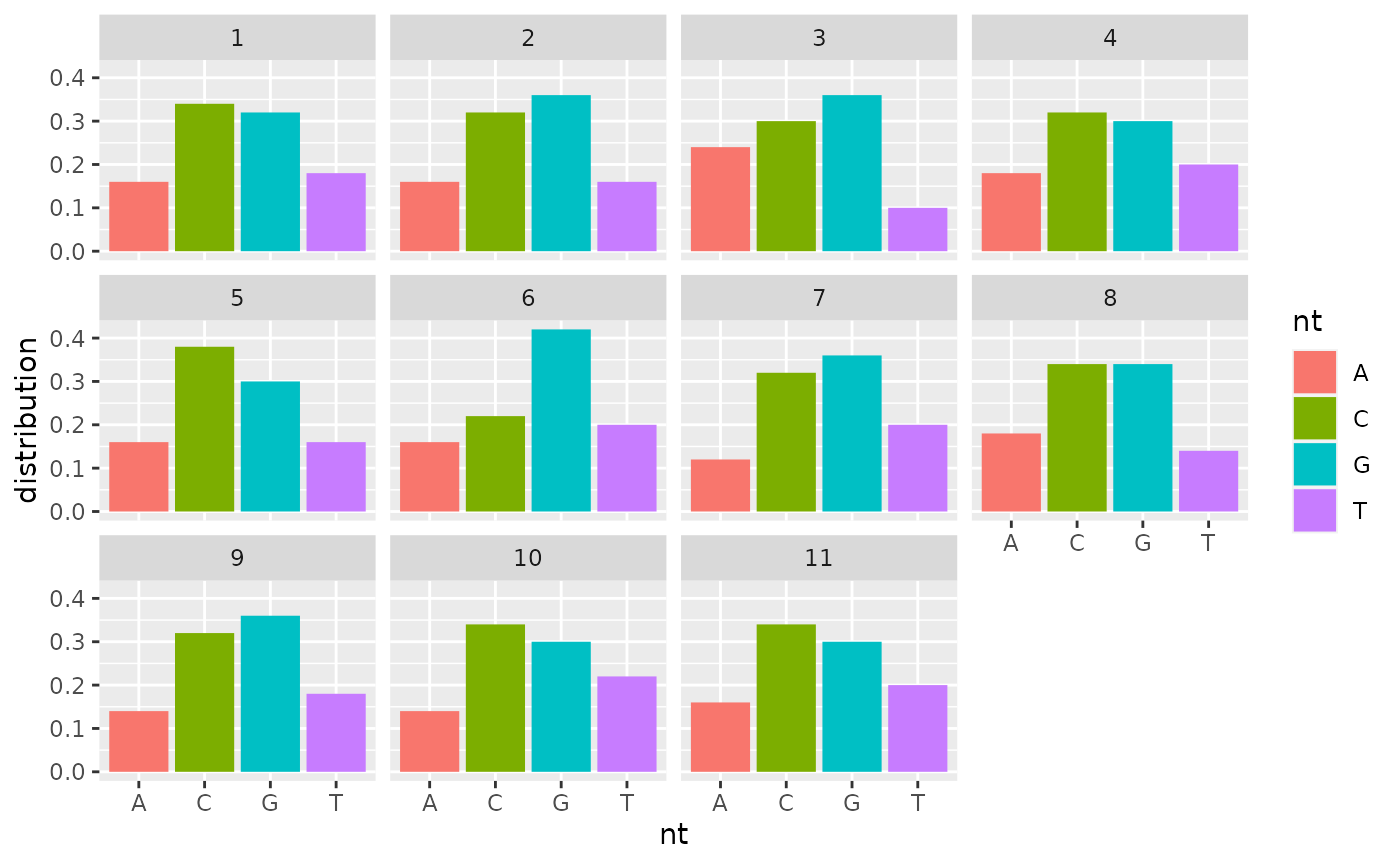
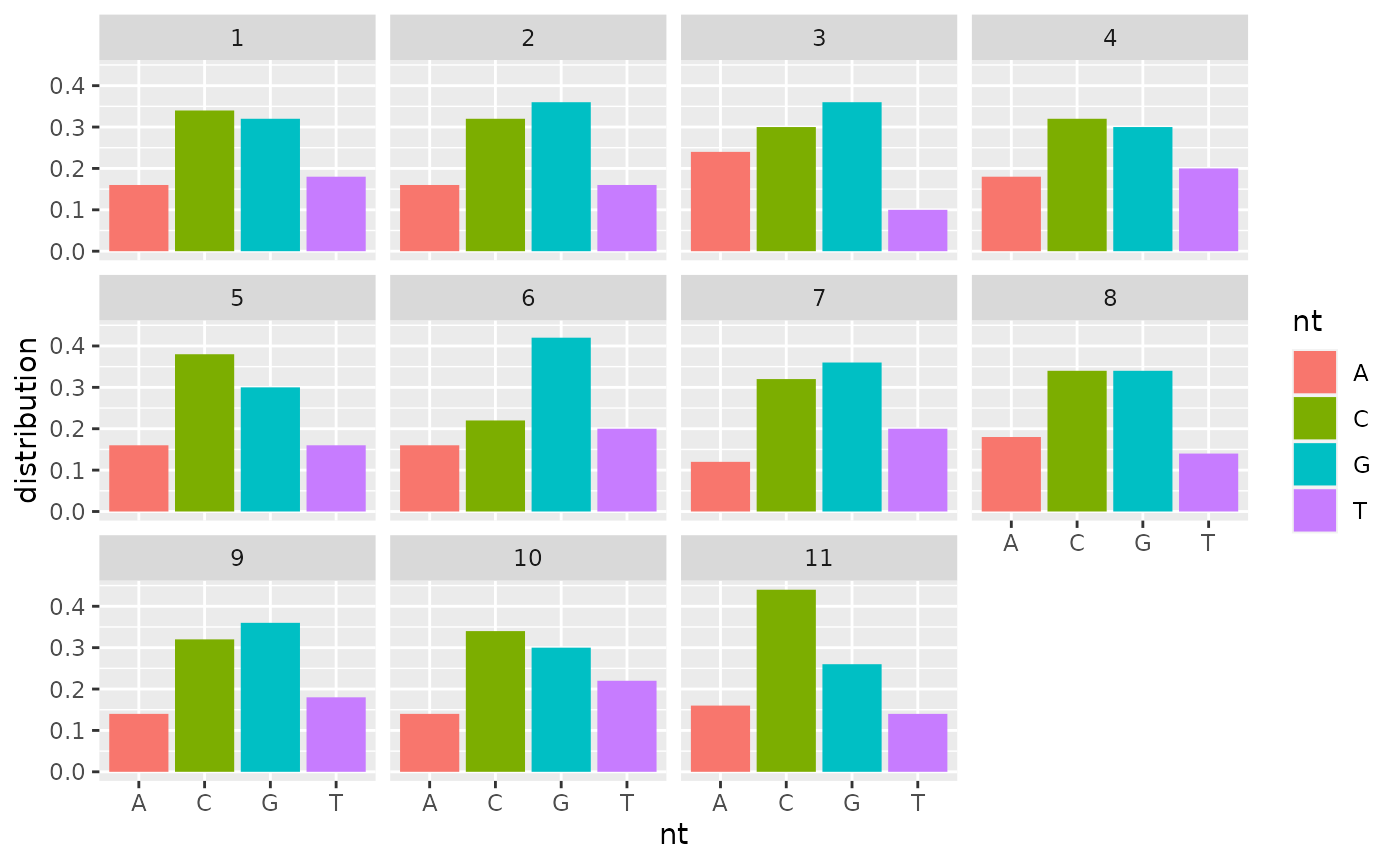
update documentation

diff --git a/docs/articles/getting_started.html b/docs/articles/getting_started.html
@@ -254,20 +254,20 @@ mark.out {
 <span><span class="co">## [[1]]$confusion_matrix</span></span>
 <span><span class="co">##             Truth</span></span>
 <span><span class="co">## Prediction   high_gc equal_dist</span></span>
-<span><span class="co">##   high_gc        387          1</span></span>
-<span><span class="co">##   equal_dist      12        398</span></span>
+<span><span class="co">##   high_gc        388          2</span></span>
+<span><span class="co">##   equal_dist      11        397</span></span>
 <span><span class="co">## </span></span>
 <span><span class="co">## [[1]]$accuracy</span></span>
 <span><span class="co">## [1] 0.9837093</span></span>
 <span><span class="co">## </span></span>
 <span><span class="co">## [[1]]$categorical_crossentropy_loss</span></span>
-<span><span class="co">## [1] 0.08368492</span></span>
+<span><span class="co">## [1] 0.1159862</span></span>
 <span><span class="co">## </span></span>
 <span><span class="co">## [[1]]$AUC</span></span>
-<span><span class="co">## [1] 0.9990138</span></span>
+<span><span class="co">## [1] 0.9986369</span></span>
 <span><span class="co">## </span></span>
 <span><span class="co">## [[1]]$AUPRC</span></span>
-<span><span class="co">## [1] 0.9990114</span></span></code></pre>
+<span><span class="co">## [1] 0.9986236</span></span></code></pre>
 <p>We can check where our model made mistakes for the sequence with high GC content.</p>
 <div class="sourceCode" id="cb13"><pre class="downlit sourceCode r">
 <code class="sourceCode R"><span><span class="va">high_gc_file</span> <span class="op">&lt;-</span> <span class="fu">microseq</span><span class="fu">::</span><span class="fu"><a href="https://rdrr.io/pkg/microseq/man/readFasta.html" class="external-link">readFasta</a></span><span class="op">(</span><span class="fu"><a href="https://rdrr.io/r/base/list.files.html" class="external-link">list.files</a></span><span class="op">(</span><span class="va">val_1_dir</span>, full.names <span class="op">=</span> <span class="cn">TRUE</span><span class="op">)</span><span class="op">[</span><span class="fl">1</span><span class="op">]</span><span class="op">)</span></span>
@@ -302,7 +302,7 @@ mark.out {
 <span><span class="fu"><a href="https://rdrr.io/r/base/names.html" class="external-link">names</a></span><span class="op">(</span><span class="va">pred_df</span><span class="op">)</span> <span class="op">&lt;-</span> <span class="fu"><a href="https://rdrr.io/r/base/c.html" class="external-link">c</a></span><span class="op">(</span><span class="st">"high_gc_conf"</span>, <span class="st">"equal_dist_conf"</span>, <span class="st">"sample_end_position"</span><span class="op">)</span></span>
 <span><span class="fu"><a href="https://rdrr.io/r/utils/head.html" class="external-link">head</a></span><span class="op">(</span><span class="va">pred_df</span><span class="op">)</span></span></code></pre></div>
 <pre><code><span><span class="co">##   high_gc_conf equal_dist_conf sample_end_position</span></span>
-<span><span class="co">## 1         0.93            0.07                  50</span></span>
+<span><span class="co">## 1         0.95            0.05                  50</span></span>
 <span><span class="co">## 2         0.97            0.03                  75</span></span>
 <span><span class="co">## 3         0.97            0.03                 100</span></span>
 <span><span class="co">## 4         0.96            0.04                 125</span></span>
@@ -312,17 +312,17 @@ mark.out {
 <code class="sourceCode R"><span><span class="va">wrong_pred</span> <span class="op">&lt;-</span> <span class="va">pred_df</span> <span class="op"><a href="../reference/pipe.html">%&gt;%</a></span> <span class="fu">dplyr</span><span class="fu">::</span><span class="fu"><a href="https://dplyr.tidyverse.org/reference/filter.html" class="external-link">filter</a></span><span class="op">(</span><span class="va">high_gc_conf</span> <span class="op">&lt;</span> <span class="fl">0.5</span><span class="op">)</span></span>
 <span><span class="va">wrong_pred</span></span></code></pre></div>
 <pre><code><span><span class="co">##    high_gc_conf equal_dist_conf sample_end_position</span></span>
-<span><span class="co">## 1          0.10            0.90                 800</span></span>
-<span><span class="co">## 2          0.13            0.87                1150</span></span>
-<span><span class="co">## 3          0.08            0.92                1950</span></span>
-<span><span class="co">## 4          0.06            0.94                2700</span></span>
-<span><span class="co">## 5          0.12            0.88                3000</span></span>
-<span><span class="co">## 6          0.09            0.91                3700</span></span>
-<span><span class="co">## 7          0.33            0.67                4425</span></span>
-<span><span class="co">## 8          0.17            0.83                4675</span></span>
-<span><span class="co">## 9          0.14            0.86                7875</span></span>
-<span><span class="co">## 10         0.10            0.90                8225</span></span>
-<span><span class="co">## 11         0.34            0.66                9900</span></span></code></pre>
+<span><span class="co">## 1          0.18            0.82                 800</span></span>
+<span><span class="co">## 2          0.28            0.72                1150</span></span>
+<span><span class="co">## 3          0.14            0.86                1950</span></span>
+<span><span class="co">## 4          0.13            0.87                2700</span></span>
+<span><span class="co">## 5          0.28            0.72                3000</span></span>
+<span><span class="co">## 6          0.14            0.86                3700</span></span>
+<span><span class="co">## 7          0.40            0.60                4425</span></span>
+<span><span class="co">## 8          0.33            0.67                4675</span></span>
+<span><span class="co">## 9          0.30            0.70                7875</span></span>
+<span><span class="co">## 10         0.17            0.83                8225</span></span>
+<span><span class="co">## 11         0.41            0.59                9925</span></span></code></pre>
 <div class="sourceCode" id="cb20"><pre class="downlit sourceCode r">
 <code class="sourceCode R"><span><span class="kw">if</span> <span class="op">(</span><span class="fu"><a href="https://rdrr.io/r/base/nrow.html" class="external-link">nrow</a></span><span class="op">(</span><span class="va">wrong_pred</span><span class="op">)</span> <span class="op">==</span> <span class="fl">0</span><span class="op">)</span> <span class="op">{</span></span>
 <span>  <span class="fu"><a href="https://rdrr.io/r/base/print.html" class="external-link">print</a></span><span class="op">(</span><span class="st">"All predictions for high GC content class correct"</span><span class="op">)</span></span>
@@ -348,7 +348,7 @@ mark.out {
 <span><span class="co">##  [8] "ATCCCGCATTCGCCGACGTCTCCACAGGAGGATCAGCGGGTCCGGGGCGA"</span></span>
 <span><span class="co">##  [9] "CTACGGAACGTGGCTCCGAGCATCGGCGCATCGGCATGTGTCTGCCGGCG"</span></span>
 <span><span class="co">## [10] "GGCGGGCCCTTCAATTCTATAAGCGACGCCGCCCTTGTCTGACGCTGGGC"</span></span>
-<span><span class="co">## [11] "TGGCCGTCGCGCTCCGGAGCCGTCACACCGGCGTACCTGTTATAAAGTCG"</span></span></code></pre>
+<span><span class="co">## [11] "CACCGGCGTACCTGTTATAAAGTCGCCCGCGCTCCCCCGGGCGCACCACG"</span></span></code></pre>
 <p>We can check the nucleotide distribution of those sequences</p>
 <div class="sourceCode" id="cb22"><pre class="downlit sourceCode r">
 <code class="sourceCode R"><span><span class="va">l</span> <span class="op">&lt;-</span> <span class="fu"><a href="https://rdrr.io/r/base/list.html" class="external-link">list</a></span><span class="op">(</span><span class="op">)</span></span>
@@ -368,7 +368,7 @@ mark.out {
 <span><span class="co">##  [8,] 0.18 0.34 0.34 0.14</span></span>
 <span><span class="co">##  [9,] 0.14 0.32 0.36 0.18</span></span>
 <span><span class="co">## [10,] 0.14 0.34 0.30 0.22</span></span>
-<span><span class="co">## [11,] 0.16 0.34 0.30 0.20</span></span></code></pre>
+<span><span class="co">## [11,] 0.16 0.44 0.26 0.14</span></span></code></pre>
 <div class="sourceCode" id="cb24"><pre class="downlit sourceCode r">
 <code class="sourceCode R"><span><span class="va">df</span> <span class="op">&lt;-</span> <span class="fu"><a href="https://rdrr.io/r/base/data.frame.html" class="external-link">data.frame</a></span><span class="op">(</span>distribution <span class="op">=</span> <span class="fu"><a href="https://rdrr.io/r/base/vector.html" class="external-link">as.vector</a></span><span class="op">(</span><span class="va">dist_matrix</span><span class="op">)</span>,</span>
 <span>                 nt <span class="op">=</span> <span class="fu"><a href="https://rdrr.io/r/base/factor.html" class="external-link">factor</a></span><span class="op">(</span><span class="fu"><a href="https://rdrr.io/r/base/rep.html" class="external-link">rep</a></span><span class="op">(</span><span class="va">vocabulary</span>, each <span class="op">=</span> <span class="fu"><a href="https://rdrr.io/r/base/nrow.html" class="external-link">nrow</a></span><span class="op">(</span><span class="va">dist_matrix</span><span class="op">)</span><span class="op">)</span><span class="op">)</span>,</span>

diff --git a/docs/reference/integrated_gradients.html b/docs/reference/integrated_gradients.html
@@ -155,26 +155,26 @@ gradient repeatedly for different shuffles). Final result is average of <code>nu
 <span class="r-in"><span>  target_class_idx <span class="op">=</span> <span class="fl">3</span>,</span></span>
 <span class="r-in"><span>  model <span class="op">=</span> <span class="va">model</span><span class="op">)</span></span></span>
 <span class="r-out co"><span class="r-pr">#&gt;</span> tf.Tensor(</span>
-<span class="r-out co"><span class="r-pr">#&gt;</span> [[-0.0000000e+00  5.6185073e-04  0.0000000e+00 -0.0000000e+00]</span>
-<span class="r-out co"><span class="r-pr">#&gt;</span>  [-0.0000000e+00  6.5913366e-04  0.0000000e+00 -0.0000000e+00]</span>
-<span class="r-out co"><span class="r-pr">#&gt;</span>  [-0.0000000e+00  0.0000000e+00  0.0000000e+00 -9.5145406e-05]</span>
-<span class="r-out co"><span class="r-pr">#&gt;</span>  [-0.0000000e+00  0.0000000e+00  0.0000000e+00 -9.5707066e-05]</span>
-<span class="r-out co"><span class="r-pr">#&gt;</span>  [-0.0000000e+00  1.1624041e-03  0.0000000e+00 -0.0000000e+00]</span>
-<span class="r-out co"><span class="r-pr">#&gt;</span>  [-0.0000000e+00  1.3719264e-03  0.0000000e+00 -0.0000000e+00]</span>
-<span class="r-out co"><span class="r-pr">#&gt;</span>  [-1.6257822e-03  0.0000000e+00 -0.0000000e+00 -0.0000000e+00]</span>
-<span class="r-out co"><span class="r-pr">#&gt;</span>  [-0.0000000e+00  2.0553048e-03  0.0000000e+00 -0.0000000e+00]</span>
-<span class="r-out co"><span class="r-pr">#&gt;</span>  [-0.0000000e+00  2.4108677e-03  0.0000000e+00  0.0000000e+00]</span>
-<span class="r-out co"><span class="r-pr">#&gt;</span>  [-0.0000000e+00  2.8258753e-03  0.0000000e+00  0.0000000e+00]</span>
-<span class="r-out co"><span class="r-pr">#&gt;</span>  [-0.0000000e+00  3.3077488e-03 -0.0000000e+00  0.0000000e+00]</span>
-<span class="r-out co"><span class="r-pr">#&gt;</span>  [-3.2337394e-03  0.0000000e+00 -0.0000000e+00  0.0000000e+00]</span>
-<span class="r-out co"><span class="r-pr">#&gt;</span>  [-0.0000000e+00  0.0000000e+00 -8.4781426e-04  0.0000000e+00]</span>
-<span class="r-out co"><span class="r-pr">#&gt;</span>  [-0.0000000e+00  0.0000000e+00 -1.4667968e-03  0.0000000e+00]</span>
-<span class="r-out co"><span class="r-pr">#&gt;</span>  [-0.0000000e+00  0.0000000e+00 -0.0000000e+00  2.8111457e-03]</span>
-<span class="r-out co"><span class="r-pr">#&gt;</span>  [-0.0000000e+00  7.5377901e-03 -0.0000000e+00  0.0000000e+00]</span>
-<span class="r-out co"><span class="r-pr">#&gt;</span>  [-0.0000000e+00  0.0000000e+00 -5.1473416e-03  0.0000000e+00]</span>
-<span class="r-out co"><span class="r-pr">#&gt;</span>  [-0.0000000e+00  0.0000000e+00 -7.3458897e-03  0.0000000e+00]</span>
-<span class="r-out co"><span class="r-pr">#&gt;</span>  [-0.0000000e+00  0.0000000e+00 -0.0000000e+00  1.2562286e-02]</span>
-<span class="r-out co"><span class="r-pr">#&gt;</span>  [-0.0000000e+00  1.3367463e-02 -0.0000000e+00  0.0000000e+00]], shape=(20, 4), dtype=float32)</span>
+<span class="r-out co"><span class="r-pr">#&gt;</span> [[ 0.0000000e+00  5.8794332e-05 -0.0000000e+00  0.0000000e+00]</span>
+<span class="r-out co"><span class="r-pr">#&gt;</span>  [ 0.0000000e+00  8.2444443e-05 -0.0000000e+00  0.0000000e+00]</span>
+<span class="r-out co"><span class="r-pr">#&gt;</span>  [ 0.0000000e+00  0.0000000e+00 -0.0000000e+00  3.3772856e-04]</span>
+<span class="r-out co"><span class="r-pr">#&gt;</span>  [ 0.0000000e+00  0.0000000e+00 -0.0000000e+00  4.3372050e-04]</span>
+<span class="r-out co"><span class="r-pr">#&gt;</span>  [-0.0000000e+00  2.1554442e-04 -0.0000000e+00  0.0000000e+00]</span>
+<span class="r-out co"><span class="r-pr">#&gt;</span>  [-0.0000000e+00  3.0925593e-04 -0.0000000e+00  0.0000000e+00]</span>
+<span class="r-out co"><span class="r-pr">#&gt;</span>  [-2.5043104e-04  0.0000000e+00 -0.0000000e+00  0.0000000e+00]</span>
+<span class="r-out co"><span class="r-pr">#&gt;</span>  [-0.0000000e+00  7.6321146e-04 -0.0000000e+00  0.0000000e+00]</span>
+<span class="r-out co"><span class="r-pr">#&gt;</span>  [-0.0000000e+00  1.0534221e-03 -0.0000000e+00  0.0000000e+00]</span>
+<span class="r-out co"><span class="r-pr">#&gt;</span>  [-0.0000000e+00  1.4456663e-03 -0.0000000e+00  0.0000000e+00]</span>
+<span class="r-out co"><span class="r-pr">#&gt;</span>  [-0.0000000e+00  1.9766958e-03 -0.0000000e+00  0.0000000e+00]</span>
+<span class="r-out co"><span class="r-pr">#&gt;</span>  [-6.7671965e-04  0.0000000e+00 -0.0000000e+00  0.0000000e+00]</span>
+<span class="r-out co"><span class="r-pr">#&gt;</span>  [ 0.0000000e+00  0.0000000e+00 -2.8955266e-03  0.0000000e+00]</span>
+<span class="r-out co"><span class="r-pr">#&gt;</span>  [ 0.0000000e+00  0.0000000e+00 -3.4210330e-03  0.0000000e+00]</span>
+<span class="r-out co"><span class="r-pr">#&gt;</span>  [ 0.0000000e+00  0.0000000e+00 -0.0000000e+00  3.3402992e-03]</span>
+<span class="r-out co"><span class="r-pr">#&gt;</span>  [ 0.0000000e+00  8.7050423e-03 -0.0000000e+00  0.0000000e+00]</span>
+<span class="r-out co"><span class="r-pr">#&gt;</span>  [ 0.0000000e+00  0.0000000e+00 -1.9358685e-03  0.0000000e+00]</span>
+<span class="r-out co"><span class="r-pr">#&gt;</span>  [ 0.0000000e+00  0.0000000e+00 -4.3324642e-05  0.0000000e+00]</span>
+<span class="r-out co"><span class="r-pr">#&gt;</span>  [ 0.0000000e+00  0.0000000e+00  0.0000000e+00  1.6571555e-03]</span>
+<span class="r-out co"><span class="r-pr">#&gt;</span>  [ 0.0000000e+00  2.3323672e-02  0.0000000e+00  0.0000000e+00]], shape=(20, 4), dtype=float32)</span>
 </code></pre></div>
     </div>
   </div>

diff --git a/docs/reference/load_prediction.html b/docs/reference/load_prediction.html
@@ -155,25 +155,25 @@
 <span class="r-out co"><span class="r-pr">#&gt;</span> states matrix has 19 rows and 2 columns </span>
 <span class="r-out co"><span class="r-pr">#&gt;</span> $states</span>
 <span class="r-out co"><span class="r-pr">#&gt;</span>       [,1] [,2]</span>
-<span class="r-out co"><span class="r-pr">#&gt;</span>  [1,] 0.47 0.53</span>
-<span class="r-out co"><span class="r-pr">#&gt;</span>  [2,] 0.46 0.54</span>
-<span class="r-out co"><span class="r-pr">#&gt;</span>  [3,] 0.45 0.55</span>
-<span class="r-out co"><span class="r-pr">#&gt;</span>  [4,] 0.45 0.55</span>
-<span class="r-out co"><span class="r-pr">#&gt;</span>  [5,] 0.44 0.56</span>
-<span class="r-out co"><span class="r-pr">#&gt;</span>  [6,] 0.47 0.53</span>
-<span class="r-out co"><span class="r-pr">#&gt;</span>  [7,] 0.48 0.52</span>
-<span class="r-out co"><span class="r-pr">#&gt;</span>  [8,] 0.44 0.56</span>
-<span class="r-out co"><span class="r-pr">#&gt;</span>  [9,] 0.47 0.53</span>
-<span class="r-out co"><span class="r-pr">#&gt;</span> [10,] 0.44 0.56</span>
-<span class="r-out co"><span class="r-pr">#&gt;</span> [11,] 0.48 0.52</span>
-<span class="r-out co"><span class="r-pr">#&gt;</span> [12,] 0.46 0.54</span>
-<span class="r-out co"><span class="r-pr">#&gt;</span> [13,] 0.46 0.54</span>
-<span class="r-out co"><span class="r-pr">#&gt;</span> [14,] 0.46 0.54</span>
-<span class="r-out co"><span class="r-pr">#&gt;</span> [15,] 0.45 0.55</span>
-<span class="r-out co"><span class="r-pr">#&gt;</span> [16,] 0.47 0.53</span>
-<span class="r-out co"><span class="r-pr">#&gt;</span> [17,] 0.47 0.53</span>
-<span class="r-out co"><span class="r-pr">#&gt;</span> [18,] 0.48 0.52</span>
-<span class="r-out co"><span class="r-pr">#&gt;</span> [19,] 0.46 0.54</span>
+<span class="r-out co"><span class="r-pr">#&gt;</span>  [1,] 0.52 0.48</span>
+<span class="r-out co"><span class="r-pr">#&gt;</span>  [2,] 0.48 0.52</span>
+<span class="r-out co"><span class="r-pr">#&gt;</span>  [3,] 0.50 0.50</span>
+<span class="r-out co"><span class="r-pr">#&gt;</span>  [4,] 0.51 0.49</span>
+<span class="r-out co"><span class="r-pr">#&gt;</span>  [5,] 0.48 0.52</span>
+<span class="r-out co"><span class="r-pr">#&gt;</span>  [6,] 0.52 0.48</span>
+<span class="r-out co"><span class="r-pr">#&gt;</span>  [7,] 0.52 0.48</span>
+<span class="r-out co"><span class="r-pr">#&gt;</span>  [8,] 0.50 0.50</span>
+<span class="r-out co"><span class="r-pr">#&gt;</span>  [9,] 0.52 0.48</span>
+<span class="r-out co"><span class="r-pr">#&gt;</span> [10,] 0.49 0.51</span>
+<span class="r-out co"><span class="r-pr">#&gt;</span> [11,] 0.54 0.46</span>
+<span class="r-out co"><span class="r-pr">#&gt;</span> [12,] 0.50 0.50</span>
+<span class="r-out co"><span class="r-pr">#&gt;</span> [13,] 0.51 0.49</span>
+<span class="r-out co"><span class="r-pr">#&gt;</span> [14,] 0.51 0.49</span>
+<span class="r-out co"><span class="r-pr">#&gt;</span> [15,] 0.47 0.53</span>
+<span class="r-out co"><span class="r-pr">#&gt;</span> [16,] 0.50 0.50</span>
+<span class="r-out co"><span class="r-pr">#&gt;</span> [17,] 0.59 0.41</span>
+<span class="r-out co"><span class="r-pr">#&gt;</span> [18,] 0.53 0.47</span>
+<span class="r-out co"><span class="r-pr">#&gt;</span> [19,] 0.49 0.51</span>
 <span class="r-out co"><span class="r-pr">#&gt;</span> </span>
 </code></pre></div>
     </div>

diff --git a/docs/reference/evaluate_model.html b/docs/reference/evaluate_model.html
@@ -265,16 +265,16 @@ and else an integer.</p></dd>
 <span class="r-out co"><span class="r-pr">#&gt;</span> [[1]]$confusion_matrix</span>
 <span class="r-out co"><span class="r-pr">#&gt;</span>           Truth</span>
 <span class="r-out co"><span class="r-pr">#&gt;</span> Prediction a c g t</span>
-<span class="r-out co"><span class="r-pr">#&gt;</span>          a 1 2 0 0</span>
-<span class="r-out co"><span class="r-pr">#&gt;</span>          c 2 0 4 2</span>
-<span class="r-out co"><span class="r-pr">#&gt;</span>          g 0 1 1 0</span>
-<span class="r-out co"><span class="r-pr">#&gt;</span>          t 0 1 1 0</span>
+<span class="r-out co"><span class="r-pr">#&gt;</span>          a 0 0 0 0</span>
+<span class="r-out co"><span class="r-pr">#&gt;</span>          c 0 0 1 0</span>
+<span class="r-out co"><span class="r-pr">#&gt;</span>          g 3 4 5 2</span>
+<span class="r-out co"><span class="r-pr">#&gt;</span>          t 0 0 0 0</span>
 <span class="r-out co"><span class="r-pr">#&gt;</span> </span>
 <span class="r-out co"><span class="r-pr">#&gt;</span> [[1]]$accuracy</span>
-<span class="r-out co"><span class="r-pr">#&gt;</span> [1] 0.1333333</span>
+<span class="r-out co"><span class="r-pr">#&gt;</span> [1] 0.3333333</span>
 <span class="r-out co"><span class="r-pr">#&gt;</span> </span>
 <span class="r-out co"><span class="r-pr">#&gt;</span> [[1]]$categorical_crossentropy_loss</span>
-<span class="r-out co"><span class="r-pr">#&gt;</span> [1] 1.380622</span>
+<span class="r-out co"><span class="r-pr">#&gt;</span> [1] 1.371211</span>
 <span class="r-out co"><span class="r-pr">#&gt;</span> </span>
 <span class="r-out co"><span class="r-pr">#&gt;</span> [[1]]$AUC</span>
 <span class="r-out co"><span class="r-pr">#&gt;</span> NULL</span>

diff --git a/docs/articles/training_types.html b/docs/articles/training_types.html
@@ -373,10 +373,10 @@ mark.out {
 <span><span class="op">)</span></span></code></pre></div>
 <pre><code><span><span class="co">## </span></span>
 <span><span class="co">## Final epoch (plot to see history):</span></span>
-<span><span class="co">##             loss: 0.0008934</span></span>
+<span><span class="co">##             loss: 0.004329</span></span>
 <span><span class="co">##     balanced_acc: 1</span></span>
 <span><span class="co">##              acc: 1</span></span>
-<span><span class="co">##         val_loss: 0.00007967</span></span>
+<span><span class="co">##         val_loss: 0.0002638</span></span>
 <span><span class="co">## val_balanced_acc: 1</span></span>
 <span><span class="co">##          val_acc: 1</span></span>
 <span><span class="co">##               lr: 0.1</span></span></code></pre>
@@ -410,10 +410,10 @@ mark.out {
 <span><span class="op">)</span></span></code></pre></div>
 <pre><code><span><span class="co">## </span></span>
 <span><span class="co">## Final epoch (plot to see history):</span></span>
-<span><span class="co">##             loss: 0.000008073</span></span>
+<span><span class="co">##             loss: 0.00001871</span></span>
 <span><span class="co">##     balanced_acc: 1</span></span>
 <span><span class="co">##              acc: 1</span></span>
-<span><span class="co">##         val_loss: 0.000004008</span></span>
+<span><span class="co">##         val_loss: 0.00001024</span></span>
 <span><span class="co">## val_balanced_acc: 1</span></span>
 <span><span class="co">##          val_acc: 1</span></span>
 <span><span class="co">##               lr: 0.1</span></span></code></pre>
